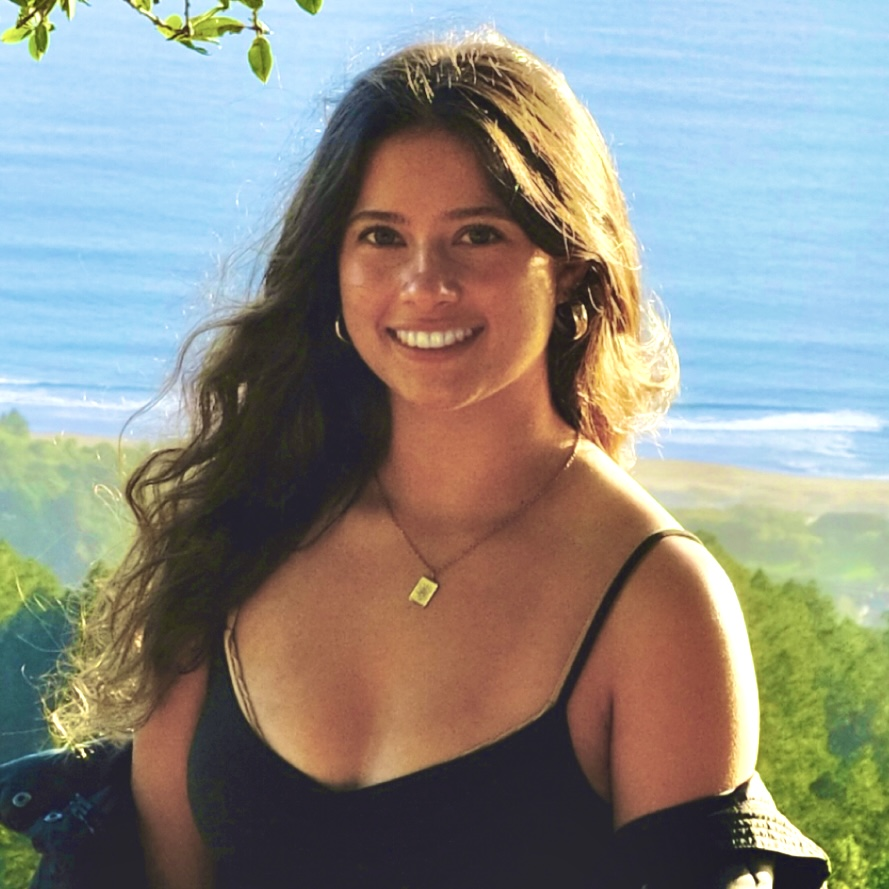
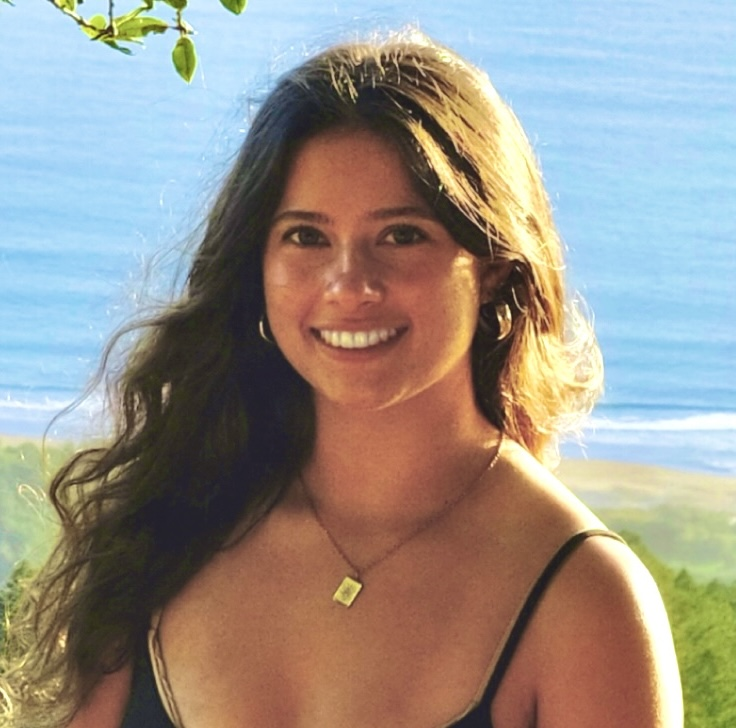
fixing format

diff --git a/index.html b/index.html
@@ -246,6 +246,14 @@
                                     <br>Senior
                                 </figcaption>
                             </figure>
+
+                            <figure style="display: inline-block;">
+                                <img src="images/profiles/adhrit.png" style="width:200px; border-radius: 50%" />
+                                <figcaption style="width:200px;text-align: center;">Adhrit Devineni
+                                    <br>Applied Math & CS
+                                    <br>Senior
+                                </figcaption>
+                            </figure>
                         </div>
 			    
 		                <div class="col" style="display: table; margin:auto;"> 
@@ -274,24 +282,6 @@
                             </figure>	
 			            </div>	
 
-                        <div class="col" style="display: table; margin:auto;"> 
-                            <figure style="display: inline-block;">
-                                <img src="images/profiles/adhrit.png" style="width:200px; border-radius: 50%" />
-                                <figcaption style="width:200px;text-align: center;">Adhrit Devineni
-                                    <br>Applied Math & CS
-                                    <br>Senior
-                                </figcaption>
-                            </figure>
-
-                            <figure style="display: inline-block;">
-                                <img src="images/profiles/alex_frantzis.jpg" style="width:200px; border-radius: 50%" />
-                                <figcaption style="width:200px;text-align: center;">Alex Frantzis
-                                    <br>Civil Eng. & EECS
-                                    <br>Senior
-                                </figcaption>
-                            </figure>
-                        </div>
-                        
                         <div class="col" style="display: table; margin:auto;">
                             <figure style="display: inline-block;">
                                 <img src="images/profiles/nicole_nikoli.jpg" style="width:200px; border-radius: 50%" />
@@ -336,12 +326,12 @@
                             </figure>
 
                             <figure style="display: inline-block;">
-                                <img src="images/profiles/will_palmer.jpg" style="width:200px; border-radius: 50%" />
-                                <figcaption style="width:200px;text-align: center;">Will Palmer
-                                    <br>Business Administration
-                                    <br>Graduate Student
+                                <img src="images/profiles/alex_frantzis.jpg" style="width:200px; border-radius: 50%" />
+                                <figcaption style="width:200px;text-align: center;">Alex Frantzis
+                                    <br>Civil Eng. & EECS
+                                    <br>Senior
                                 </figcaption>
-			                </figure>
+                            </figure>
                         </div>
 
                         <div class="col" style="display: table; margin:auto;">
